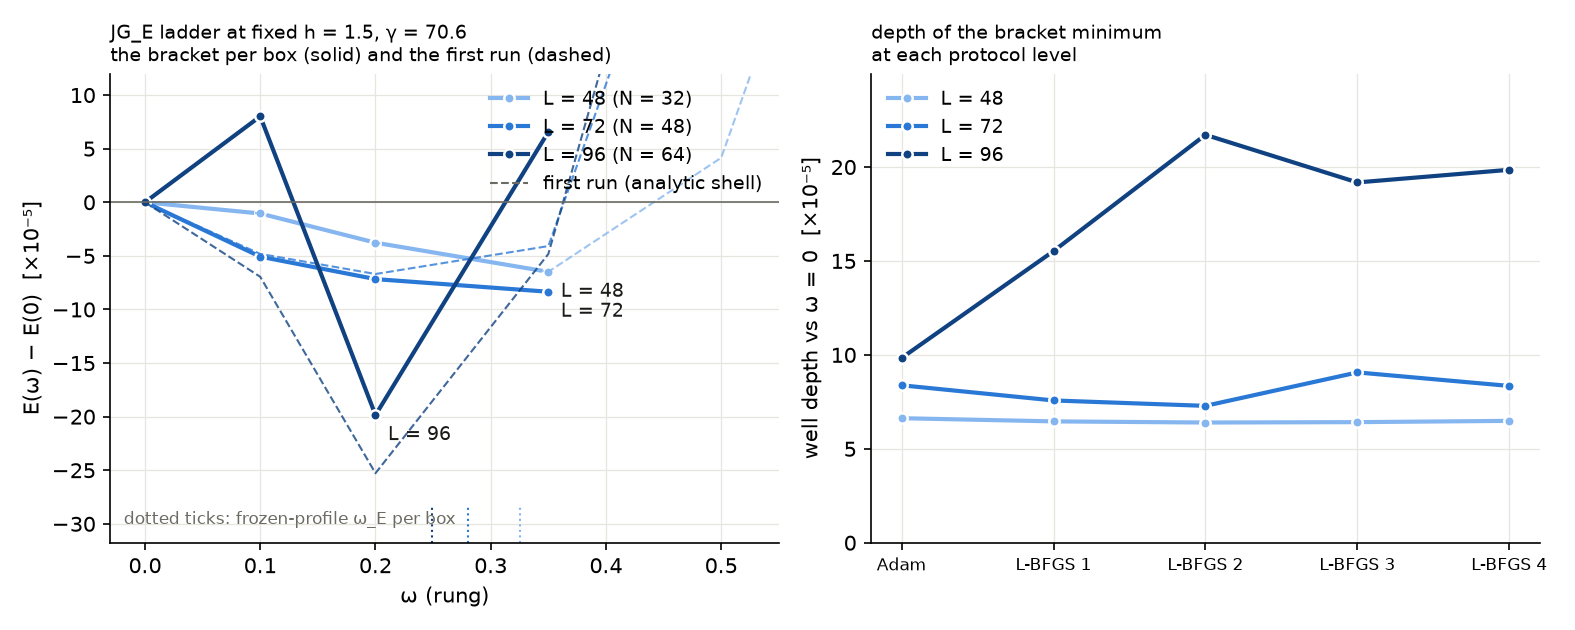
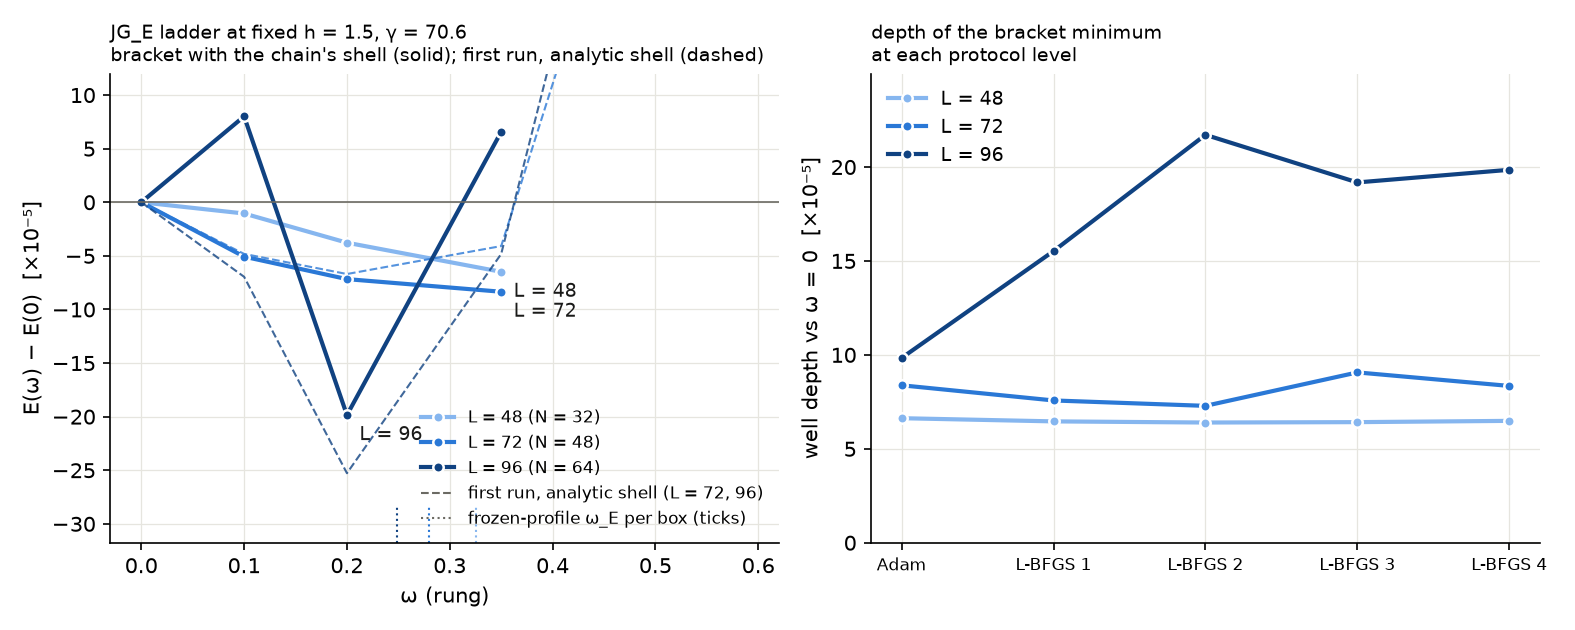
008 appendix, review round 2: verifier tells preserved from regenerated records, bracket record synced with fields, wording and figure
1. Every record carries a `shell` key (chain seed / analytic ansatz of
   the first run); verify_L_ladder.py keeps the recorded verdicts for
   the preserved N = 48/64 first runs and applies the appendix's
   statements to chain-seed runs (replayed with the corrected bracket
   spliced into the N = 48 seven-rung record: passes). A full ladder
   writes its bracket subset as rungs_N*.json, the only record the
   independent route reads, so record and persisted fields never
   diverge under --fresh.
2. N = 32 row: -1.0, -3.8, -6.5; polish described as a target with a
   twelve-cycle cap, attained residuals 1-3e-4 left in the records.
3. First-run N = 32 record replaced by the corrected run (stated);
   compared ordinate stated as E(omega) - E(0); figure drops the
   redundant N = 32 dashed curve, labels the dashed ones, legend moved
   to the empty lower-right corner.
4. Exact replay scoped to the recorded stack; the larger-box spread
   named the observed two-run sensitivity, remaining relaxation error
   not quantified.

Claude-Session: https://claude.ai/code/session_01JKduBS97uM7VQTnjhYo6Ju

diff --git a/reports/008-i1-squared-clock/verify_L_ladder.py b/reports/008-i1-squared-clock/verify_L_ladder.py
@@ -1,4 +1,10 @@
-"""Structural assertions on the committed L-ladder records (results/L_ladder/*.json)."""
+"""Structural assertions on the committed L-ladder records (results/L_ladder/*.json).
+
+Two kinds of record are told apart by their "shell" key: the preserved exploration (the first seven-rung runs
+at N = 48 and 64, analytic ansatz on the pinned shell) keeps its recorded verdicts; everything with the chain's
+seed on the shell (the N = 32 ladder, the bracket records, and whatever `all --fresh` regenerates) is checked
+against the statements the appendix makes about such runs, with the observed run-to-run sensitivity in mind.
+"""
 import json
 import os
 
@@ -6,59 +12,72 @@ HERE = os.path.dirname(os.path.abspath(__file__))
 RES = os.path.join(HERE, "results", "L_ladder")
 L008 = json.load(open(os.path.join(HERE, "results", "i1sq_ladders.json")))
 rec = {r["omega"]: r["E_total"] for r in L008["JG_E"]["rungs"]}
+FIRST_RUN = "analytic"
+
+
+def load(name):
+    p = os.path.join(RES, name)
+    return json.load(open(p)) if os.path.exists(p) else None
+
 
 # the reimplementation reproduces the committed 008 rung energies exactly
-v = json.load(open(os.path.join(RES, "validate.json")))
+v = load("validate.json")
 assert v["pass"] and v["worst_rel_dev"] < 1e-9, v
 # the N = 32 chain from the committed 2b seed reproduces the committed polished statics (bitwise on the recorded stack)
-c32 = json.load(open(os.path.join(RES, "chain_N32.json")))
+c32 = load("chain_N32.json")
 assert abs(c32["E_G_polished"] - L008["E_stat0"]) < 1e-9 * L008["E_stat0"], c32["E_G_polished"]
 assert c32.get("seed_vs_committed_seed_maxdev", 1.0) == 0.0
+print("chain N = 32: E_stat", "bitwise" if c32["E_G_polished"] == L008["E_stat0"] else "within 1e-9", "against 008")
 # the analytic-seed shortcut does NOT reproduce it (recorded as the negative that forced the 2b regeneration)
-ca = json.load(open(os.path.join(RES, "chain_N32_analytic_seed.json")))
+ca = load("chain_N32_analytic_seed.json")
 assert ca["vs_committed_polished"]["max_abs_dM"] > 0.1 and abs(ca["profile"]["omega_pred_E"] - 0.326) > 0.05
-# the N = 32 ladder reproduces 008's well: interior minimum at 0.35 at every protocol level, depth plateau
-l32 = json.load(open(os.path.join(RES, "ladder_N32.json")))
+# the N = 32 ladder (chain seed on the shell) reproduces 008's ladder: minimum 0.35 at every level, rung energies
+# to 1e-9 relative (bitwise on the recorded stack), the depth plateau
+l32 = load("ladder_N32.json")
+assert FIRST_RUN not in l32.get("shell", ""), "ladder_N32.json must be the chain-seed run"
 assert l32["interior"] and l32["min_omega"] == 0.35 and set(l32["min_omega_per_level"]) == {0.35}
 r32 = {r["omega"]: r["E_total"] for r in l32["rungs"]}
 for om in rec:
-    assert r32[om] == rec[om], (om, r32[om], rec[om])   # on the corrected stack (chain's shell) the ladder is bitwise
-assert l32["depth_per_level"] == L008["JG_E"]["depth_per_level"]
-# the bracket rerun of every box: N = 32 bitwise against 008; the others recorded with persisted fields
-for N in (32, 48, 64):
-    f = os.path.join(RES, f"rungs_N{N}.json")
-    if os.path.exists(f):
-        rr = {r["omega"]: r["E_total"] for r in json.load(open(f))["rungs"]}
-        assert set(rr) == {0.0, 0.1, 0.2, 0.35}, rr.keys()
-        if N == 32:
-            assert all(rr[om] == rec[om] for om in rr), "N = 32 bracket must be bitwise against 008"
-# the independent numpy route on the persisted brackets (verify_L_ladder_energies.py --strict) is run by reproduce_appendix_L.sh
+    assert abs(r32[om] - rec[om]) < 1e-9 * abs(rec[om]), (om, r32[om], rec[om])
+print("ladder N = 32:", "bitwise" if all(r32[om] == rec[om] for om in rec) else "within 1e-9", "against 008's seven rungs")
 # the box ladder: statics and the frozen-profile prediction move monotonically with L
-chains = {N: json.load(open(os.path.join(RES, f"chain_N{N}.json"))) for N in (32, 48, 64)
-          if os.path.exists(os.path.join(RES, f"chain_N{N}.json"))}
+chains = {N: load(f"chain_N{N}.json") for N in (32, 48, 64)}
 Es = [chains[N]["E_G_polished"] for N in sorted(chains)]
 oms = [chains[N]["profile"]["omega_pred_E"] for N in sorted(chains)]
 assert all(a > b for a, b in zip(Es, Es[1:])), Es
 assert all(a > b for a, b in zip(oms, oms[1:])), oms
-# N = 48 and 64, first seven-rung run (analytic shell): recorded as the exploration
-l48 = json.load(open(os.path.join(RES, "ladder_N48.json")))
-assert l48["interior"] and l48["min_omega"] == 0.2
-l64 = json.load(open(os.path.join(RES, "ladder_N64.json")))
-assert l64["interior"] and l64["min_omega"] == 0.2
-# the certified brackets (chain shell, persisted fields): a rung below omega = 0 in every box; the L = 72 pair
-# within 2e-5 of each other; the L = 96 minimum at 0.2 at every level with both neighbours above omega = 0
-b48 = json.load(open(os.path.join(RES, "rungs_N48.json")))
-e48 = {r["omega"]: r["E_total"] for r in b48["rungs"]}
-assert e48[0.2] - e48[0.0] < -5e-5 and e48[0.35] - e48[0.0] < -5e-5 and abs(e48[0.2] - e48[0.35]) < 2e-5, e48
-assert set(b48["min_omega_per_level"]) <= {0.2, 0.35}
-b64 = json.load(open(os.path.join(RES, "rungs_N64.json")))
-e64 = {r["omega"]: r["E_total"] for r in b64["rungs"]}
-assert set(b64["min_omega_per_level"]) == {0.2} and e64[0.2] - e64[0.0] < -1e-4, e64
-assert e64[0.1] > e64[0.0] and e64[0.35] > e64[0.0]
+# the seven-rung records at N = 48 and 64
+for N in (48, 64):
+    lad = load(f"ladder_N{N}.json")
+    assert lad["interior"], (N, lad["min_omega"])
+    if FIRST_RUN in lad.get("shell", ""):
+        # the preserved exploration: verdicts as recorded (0.2 at every level in both boxes)
+        assert lad["min_omega"] == 0.2 and set(lad["min_omega_per_level"]) == {0.2}, (N, lad["min_omega_per_level"])
+        print(f"ladder N = {N}: first run (analytic shell), minimum 0.2 as recorded")
+    else:
+        # a regenerated run with the chain's seed: the appendix's statement for such runs
+        assert lad["min_omega"] in (0.2, 0.35), (N, lad["min_omega"])
+        print(f"ladder N = {N}: chain-seed run, minimum {lad['min_omega']}")
+# the certified brackets (chain seed, persisted fields): the bracket rungs exactly; a rung below omega = 0 in every
+# box; at L = 72 the minimum in the 0.2/0.35 pair with depth above 4e-5; at L = 96 the minimum at 0.2 with depth
+# above 1e-4 (both hold in the two runs on record, whose E(omega) - E(0) differ by up to 4e-5 and 1.5e-4)
+for N in (32, 48, 64):
+    b = load(f"rungs_N{N}.json")
+    assert FIRST_RUN not in b.get("shell", ""), (N, "bracket record must come from the chain-seed stack")
+    e = {r["omega"]: r["E_total"] for r in b["rungs"]}
+    assert set(e) == {0.0, 0.1, 0.2, 0.35}, e.keys()
+    kmin = min(e, key=e.get)
+    depth = e[0.0] - e[kmin]
+    assert kmin != 0.0 and depth > 0, (N, e)
+    if N == 32:
+        assert all(abs(e[om] - rec[om]) < 1e-9 * abs(rec[om]) for om in e), "N = 32 bracket must reproduce 008"
+    if N == 48:
+        assert kmin in (0.2, 0.35) and depth > 4e-5, (kmin, depth)
+    if N == 64:
+        assert kmin == 0.2 and depth > 1e-4, (kmin, depth)
+    print(f"bracket N = {N}: minimum {kmin}, depth {depth:.2e}")
 # the independent route (run by reproduce_appendix_L.sh) must have matched every persisted energy
-ir = json.load(open(os.path.join(RES, "independent_route.json")))
+ir = load("independent_route.json")
 assert ir["worst_rel_dev"] < 1e-9, ir["worst_rel_dev"]
-print("brackets: L = 48 min 0.35 (bitwise vs 008); L = 72 min", b48["min_omega"], "with the 0.2/0.35 pair within 2e-5;",
-      "L = 96 min 0.2 at every level; independent route worst relative deviation", ir["worst_rel_dev"])
 assert os.path.getsize(os.path.join(RES, "fig_L_ladder.png")) > 10000
-print("L-ladder records consistent")
+print("L-ladder records consistent; independent route worst relative deviation", ir["worst_rel_dev"])

diff --git a/reports/008-i1-squared-clock/verify_L_ladder_energies.py b/reports/008-i1-squared-clock/verify_L_ladder_energies.py
@@ -5,11 +5,11 @@ No torch, no import of lattice_L.py: the definitions are the same from-scratch n
 verify_energies.py (one-sided differences, eta-commutator, Lagrange-projector Euclideanizer, V4, the static
 I1_G density and the G-metric time density, the energy reading of the quartic), with N read from the field
 and h = 1.5. The frozen tangent is rebuilt here in numpy from the box's polished field (envelope
-exp(-(r/10)^4) times the boost-x conjugation tangent, unit Frobenius norm). For each box the persisted rungs
-omega in {0, 0.1, 0.2, 0.35} are evaluated and compared with the records: the first ladder run
-(ladder_N*.json) for the rungs it persisted (0 and 0.35), the bracket rerun (rungs_N*.json) for 0.1 and 0.2.
-Asserts: every persisted energy matches its record to 1e-9 relative, and in every box the sampled well
-(minimum below its neighbours and below omega = 0) holds in this independent evaluation.
+exp(-(r/10)^4) times the boost-x conjugation tangent, unit Frobenius norm). For each box the persisted bracket
+rungs omega in {0, 0.1, 0.2, 0.35} are evaluated and compared with the bracket record rungs_N*.json, which is
+written by the same run that persisted the fields (the `rungs` mode, or the bracket subset of a full ladder).
+With --strict: every persisted energy matches its record to 1e-9 relative, and in every box a bracket rung lies
+below omega = 0 in this independent evaluation.
 Writes results/L_ladder/independent_route.json.
 """
 import json
@@ -112,9 +112,7 @@ def pinned_field(M_raw, N, seed3):
 
 out, worst = {}, 0.0
 for N in (32, 48, 64):
-    lad = json.load(open(os.path.join(RES, f"ladder_N{N}.json")))
-    rer_path = os.path.join(RES, f"rungs_N{N}.json")
-    rer = json.load(open(rer_path)) if os.path.exists(rer_path) else None
+    rer = json.load(open(os.path.join(RES, f"rungs_N{N}.json")))
     seed3 = np.load(os.path.join(RES, "seeds", f"m5_21_2b_end_A_T2_sym_e0_n{N}_d0.3_pinned.npz"))["M"].astype(np.float64)
     pol = np.load(os.path.join(RES, f"M_G_polished_N{N}.npz"))["M"]
     a0 = tangent(pinned_field(pol, N, seed3))
@@ -126,13 +124,11 @@ for N in (32, 48, 64):
             continue
         M = pinned_field(np.load(f)["M"], N, seed3)
         E = energy(M, a0, om)
-        # the record this field belongs to: the first ladder run persisted 0 and 0.35, the rerun 0.1 and 0.2
-        src = rer if (rer and om in [r["omega"] for r in rer["rungs"]]) else lad
-        ref = [r for r in src["rungs"] if r["omega"] == om][0]["E_total"]
+        ref = [r for r in rer["rungs"] if r["omega"] == om][0]["E_total"]
         rel = abs(E - ref) / abs(ref)
         worst = max(worst, rel)
-        rows[om] = {"E_numpy": E, "E_record": ref, "rel_dev": rel, "record": "rungs rerun" if src is rer else "ladder"}
-        print(f"N = {N} omega {om}: E_numpy {E:.9f} vs record {ref:.9f} (rel {rel:.1e}, {rows[om]['record']})")
+        rows[om] = {"E_numpy": E, "E_record": ref, "rel_dev": rel}
+        print(f"N = {N} omega {om}: E_numpy {E:.9f} vs record {ref:.9f} (rel {rel:.1e})")
     out[str(N)] = rows
     if all(o in rows for o in BRACKET):
         e = {o: rows[o]["E_numpy"] for o in BRACKET}
@@ -144,5 +140,6 @@ json.dump(out, open(os.path.join(RES, "independent_route.json"), "w"), indent=1)
 if "--strict" in sys.argv:
     assert worst < 1e-9, worst
     for N in (32, 48, 64):
-        assert out[str(N)]["well"]["min_at"] in (0.2, 0.35) and out[str(N)]["well"]["E_minus_E0"][str(out[str(N)]["well"]["min_at"])] < 0
-    print("ROUTE-2 ENERGIES MATCH IN EVERY BOX; the sampled wells hold independently")
+        w = out[str(N)]["well"]
+        assert w["min_at"] != 0.0 and w["E_minus_E0"][str(w["min_at"])] < 0, (N, w)
+    print("ROUTE-2 ENERGIES MATCH IN EVERY BOX; a bracket rung below omega = 0 in every box, independently")

diff --git a/reports/008-i1-squared-clock/make_appendix_L_figure.py b/reports/008-i1-squared-clock/make_appendix_L_figure.py
@@ -1,8 +1,9 @@
 """Figure for APPENDIX-L-ladder: the (I1^G)^2 energy-functional well at three box sizes, from the committed JSON.
 
-Left: E(omega) - E(0) per box (final protocol level), with the frozen-profile prediction omega_E of each box as a
-tick on the axis. Right: the depth of the well relative to omega = 0 at each protocol level (Adam, then four
-L-BFGS cycles) per box, i.e. the plateau check of report 008 section 6. Boxes are an ordered set, so one hue,
+Left: E(omega) - E(0) of the bracket rerun with the chain's shell per box (solid, final protocol level) and of the
+preserved first seven-rung runs with the analytic ansatz on the shell (dashed; N = 48 and 64), with the
+frozen-profile prediction omega_E of each box as a tick on the axis. Right: the depth of the bracket minimum
+relative to omega = 0 at each protocol level (Adam, then four L-BFGS cycles) per box. Boxes are an ordered set, so one hue,
 light to dark with L; each series is direct-labelled.
 """
 import json
@@ -41,22 +42,24 @@ for N, lad in ladders.items():
         levels = br["depth_per_level"]
         bx.plot(range(len(levels)), [d * 1e5 for d in levels], "-", color=COLORS[N], lw=2, marker="o", ms=5,
                 mec="white", mew=1.2, label=f"L = {L:g}")
-    # the first seven-rung run (analytic shell, 3e-8 off on the boundary): dashed, the outer rungs only
-    omf = [r["omega"] for r in lad["rungs"]]
-    E0f = lad["rungs"][0]["E_total"]
-    dEf = [(r["E_total"] - E0f) * 1e5 for r in lad["rungs"]]
-    ax.plot(omf, dEf, "--", color=COLORS[N], lw=1, alpha=0.8, label=None)
+    # the preserved first seven-rung runs (analytic ansatz on the shell, 3e-8 off; N = 48 and 64 only -- the
+    # N = 32 seven-rung record is the corrected run, identical to the bracket on its rungs): dashed
+    if "analytic" in lad.get("shell", ""):
+        omf = [r["omega"] for r in lad["rungs"]]
+        E0f = lad["rungs"][0]["E_total"]
+        dEf = [(r["E_total"] - E0f) * 1e5 for r in lad["rungs"]]
+        ax.plot(omf, dEf, "--", color=COLORS[N], lw=1, alpha=0.8, label=None)
     ax.axvline(lad["profile"]["omega_pred_E"], color=COLORS[N], lw=1, ls=":", ymin=0, ymax=0.08)
-ax.plot([], [], "--", color=MUTED, lw=1, label="first run (analytic shell)")
+ax.plot([], [], "--", color=MUTED, lw=1, label="first run, analytic shell (L = 72, 96)")
+ax.plot([], [], ":", color=MUTED, lw=1, label="frozen-profile ω_E per box (ticks)")
 ax.axhline(0, color=MUTED, lw=0.8)
-ax.set_xlim(-0.03, 0.55)
+ax.set_xlim(-0.03, 0.62)
 ymin = min(min((r["E_total"] - [x for x in br["rungs"] if x["omega"] == 0.0][0]["E_total"]) * 1e5 for r in br["rungs"]) for br in brackets.values())
 ax.set_ylim(ymin * 1.6, 12)
 ax.set_xlabel("ω (rung)")
 ax.set_ylabel("E(ω) − E(0)  [×10⁻⁵]")
-ax.set_title("JG_E ladder at fixed h = 1.5, γ = 70.6\nthe bracket per box (solid) and the first run (dashed)", fontsize=9, loc="left")
-ax.text(0.02, 0.04, "dotted ticks: frozen-profile ω_E per box", transform=ax.transAxes, color=MUTED, fontsize=8)
-ax.legend(frameon=False, fontsize=9, loc="upper right")
+ax.set_title("JG_E ladder at fixed h = 1.5, γ = 70.6\nbracket with the chain's shell (solid); first run, analytic shell (dashed)", fontsize=9, loc="left")
+ax.legend(frameon=False, fontsize=8, loc="lower right")
 bx.set_ylim(0, 1.15 * max(max(d for d in br["depth_per_level"]) for br in brackets.values()) * 1e5)
 bx.set_xticks(range(5))
 bx.set_xticklabels(["Adam", "L-BFGS 1", "L-BFGS 2", "L-BFGS 3", "L-BFGS 4"], fontsize=8)

diff --git a/reports/008-i1-squared-clock/appendix_L_ladder.py b/reports/008-i1-squared-clock/appendix_L_ladder.py
@@ -199,7 +199,7 @@ def ladder(N, omegas=OMEGAS, tag="ladder"):
               f"|g|inf {ginf:.1e}, levels {['%.6f' % e for e in E_levels]} [{time.time()-t0:.0f}s]", flush=True)
         if om in SAVE_RUNGS:
             np.savez_compressed(os.path.join(RES, f"jge_N{N}_om{str(om).replace('.', '')}.npz"), M=Mf.cpu().numpy())
-    out = {"N": N, "L": st.L, "H": st.H, "gamma": GAMMA, "profile": prof, "rungs": rungs,
+    out = {"N": N, "L": st.L, "H": st.H, "gamma": GAMMA, "profile": prof, "rungs": rungs, "shell": "chain seed",
            "max_grad_inf": max(r["grad_inf"] for r in rungs), "wall_s": time.time() - t0}
     r0 = {r["omega"]: r for r in rungs}
     if 0.0 in r0 and len(rungs) > 2:
@@ -217,6 +217,13 @@ def ladder(N, omegas=OMEGAS, tag="ladder"):
     else:
         print(f"  [N{N}] {tag} recorded for rungs {[r['omega'] for r in rungs]}", flush=True)
     jdump(out, f"{tag}_N{N}.json")
+    if tag == "ladder" and set(SAVE_RUNGS) <= set(omegas):
+        # the bracket subset of this run, in the record the independent route reads; it is written from the same
+        # relaxations whose fields were persisted above, so the record and the fields never diverge
+        sub = dict(out, rungs=[r for r in rungs if r["omega"] in SAVE_RUNGS], note="bracket subset of the full ladder run")
+        for k in ("min_omega", "interior", "min_omega_per_level", "depth_per_level", "depth_changes", "well_depth_vs_omega0"):
+            sub.pop(k, None)
+        jdump(sub, f"rungs_N{N}.json")
     return out
 
 
@@ -241,7 +248,7 @@ def record(N, omegas):
         rungs.append({"omega": om, "E_total": Es + Ex, "E_stat": Es, "E_extra": Ex, "PR_k_sites": pr, "r_half_k": r_half,
                       "from_persisted_field": True})
         print(f"  [N{N}] record omega {om}: E {Es+Ex:.9f} (extra {Ex:+.4f}), PR {pr:.0f}, r_half {r_half:.1f}", flush=True)
-    out = {"N": N, "L": st.L, "H": st.H, "gamma": GAMMA, "profile": prof, "rungs": rungs,
+    out = {"N": N, "L": st.L, "H": st.H, "gamma": GAMMA, "profile": prof, "rungs": rungs, "shell": "chain seed",
            "note": "rerun of the bracket rungs with the ladder protocol; fields persisted, record evaluated from them"}
     jdump(out, f"rungs_N{N}.json")
     return out

diff --git a/reports/008-i1-squared-clock/APPENDIX-L-ladder.md b/reports/008-i1-squared-clock/APPENDIX-L-ladder.md
@@ -27,7 +27,8 @@ produced the report's field:
    copy of OpenWave's script with only its output directory changed);
 2. the report-004 chain: embedding with M₀₀ = −g, 3000 Adam steps in the
    η statics, 3000 in the G statics, the gradient-gated polish (Adam
-   annealed, then L-BFGS to ‖g‖∞ < 10⁻⁴);
+   annealed, then L-BFGS towards ‖g‖∞ < 10⁻⁴, capped at twelve cycles;
+   the attained residuals, 1–3·10⁻⁴, are in the chain records);
 3. the report's JG_E ladder: rungs ω ∈ {0, 0.1, 0.2, 0.35, 0.5, 0.8,
    1.2}, every rung relaxed by the fixed-depth protocol (500 Adam steps
    and four L-BFGS cycles), energies recorded after every level, the
@@ -49,8 +50,11 @@ committed rung energies only to 10⁻⁶; the bracket rungs
 shell of the chain (the record `rungs_N*.json`, fields persisted). With
 the shell consistent the full N = 32 ladder reproduces the committed
 ladder of this report **bitwise** (all seven rungs and the depth at
-every protocol level, difference 0.0): the stack is deterministic end
-to end, and the independent route below evaluates the persisted
+every protocol level, difference 0.0) on the recorded stack — the same
+machine, GPU and library versions; the first-run N = 32 record, which
+differed from it by about 10⁻⁶, is replaced by this run, while the
+first-run seven-rung records at N = 48 and 64 are kept as the
+exploration. The independent route below evaluates the persisted
 bracket fields of every box. A
 shortcut tried first — the analytic hedgehog ansatz relaxed directly,
 skipping the instrument — lands in a different static minimum (E_stat
@@ -68,16 +72,17 @@ first seven-rung run and are far above ω = 0 in every box.
 
 | L (N) | E_stat | ω_E = √(C₁/C₂) | bracket minimum, per protocol level | E − E(0) at ω = 0.1, 0.2, 0.35 (10⁻⁵) | depth of the minimum per level (10⁻⁵) | ticking density: sites, r½ | ‖g‖∞ on the bracket |
 |---|---|---|---|---|---|---|---|
-| 48 (32) | 4.835 | 0.326 | 0.35 at all five levels | −0.9, −3.9, −6.6 | 6.6, 6.5, 6.4, 6.4, 6.5 | 101, 6.8 | 7·10⁻³ |
+| 48 (32) | 4.835 | 0.326 | 0.35 at all five levels | −1.0, −3.8, −6.5 | 6.6, 6.5, 6.4, 6.4, 6.5 | 101, 6.8 | 7·10⁻³ |
 | 72 (48) | 4.548 | 0.280 | 0.2 at levels 1–3, 0.35 at levels 4–5 | −5.1, −7.2, −8.3 | 8.4, 7.6, 7.3, 9.1, 8.3 | 314, 7.8 | 7·10⁻² |
 | 96 (64) | 4.377 | 0.249 | 0.2 at all five levels | +8.0, −19.9, +6.6 | 9.8, 15.5, 21.7, 19.2, 19.9 | 277, 6.1 | 3·10⁻² |
 
 ![L ladder](results/L_ladder/fig_L_ladder.png)
 
-*Left: the bracket in each box at the final protocol level (solid; the
-first seven-rung run dashed), with the frozen-profile prediction ω_E
-marked on the axis. Right: the depth of the bracket minimum at each
-protocol level.*
+*Left: E(ω) − E(0) of the bracket rerun with the chain's shell, per
+box at the final protocol level (solid), and of the preserved first
+runs with the analytic ansatz on the shell (dashed, L = 72 and 96),
+with the frozen-profile prediction ω_E marked on the axis. Right: the
+depth of the bracket minimum at each protocol level.*
 
 1. **The static electron changes with the box.** Moving the pinned
    shell from 24 to 36 and 48 lowers the polished static energy by 6%
@@ -98,16 +103,18 @@ protocol level.*
    spreads over about three times as many sites as in the report's box.
 3. **In the larger boxes the protocol resolves the rung, not the
    depth.** Two runs of the same protocol whose boundary values differ
-   by 3·10⁻⁸ (the first run and the bracket rerun) agree bitwise at
-   L = 48 but differ by 4·10⁻⁵ on the 0.35 rung at L = 72 and by
-   1–1.5·10⁻⁴ on the 0.1 and 0.35 rungs at L = 96, while agreeing on
-   which rung is lowest (except the L = 72 pair); the depth per level
-   is non-monotone in both larger boxes, and the residuals are ten
-   times the report's. §6's plateau criterion is formally met by the
-   reruns (final change 9% and 3.5% of the depth), but the run-to-run
-   scatter is the honest uncertainty: the depths quoted for L = 72 and
-   96 are the values observed after the stated protocol, known to
-   about 10⁻⁵ and 10⁻⁴, and nothing more.
+   by 3·10⁻⁸ (the first run with the analytic shell and the bracket
+   rerun with the chain's shell) differ in E(ω) − E(0) by about 10⁻⁶
+   at L = 48, by up to 4·10⁻⁵ at L = 72 (the 0.35 rung) and by up to
+   1.5·10⁻⁴ at L = 96 (the 0.1 and 0.35 rungs, which change sign),
+   while agreeing on which rung is lowest except for the L = 72 pair;
+   the depth per level is non-monotone in both larger boxes, and the
+   residuals are ten times the report's. §6's plateau criterion is
+   formally met by the reruns (final change 9% and 3.5% of the depth),
+   but that spread is the observed two-run sensitivity to the boundary
+   change, and the remaining relaxation error common to both runs is
+   not quantified: the depths quoted for L = 72 and 96 are the values
+   observed after the stated protocol, and nothing more.
 
 ## Independent route on the persisted bracket
 
@@ -119,7 +126,13 @@ bracket fields it reproduces every recorded energy to 10⁻¹⁵ relative
 finds the same minima: 0.35 at L = 48, 0.35 at L = 72 (0.2 within
 1.2·10⁻⁵), 0.2 at L = 96, each below ω = 0 by the depths of the table.
 The route certifies the energies of the persisted endpoints; what the
-relaxation protocol left unresolved (point 3) it cannot resolve.
+relaxation protocol left unresolved (point 3) it cannot resolve. The
+bracket record `rungs_N*.json` is always written by the run that
+persisted the fields (the `rungs` mode, or the bracket subset of a
+full ladder), so a regeneration keeps the two in step; the structural
+checks in `verify_L_ladder.py` tell the preserved first-run records
+(key `shell`) from regenerated ones and apply the appendix's statements
+to each.
 
 ## What this appendix does not show
 
